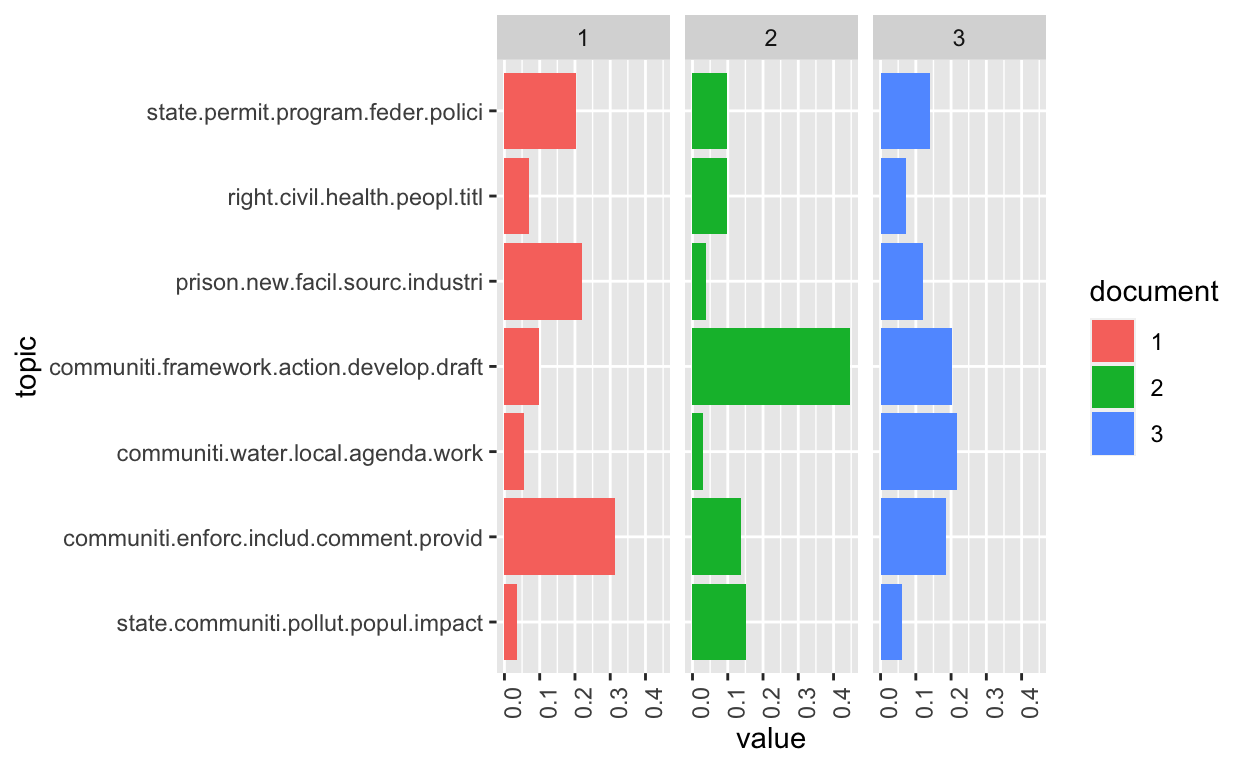
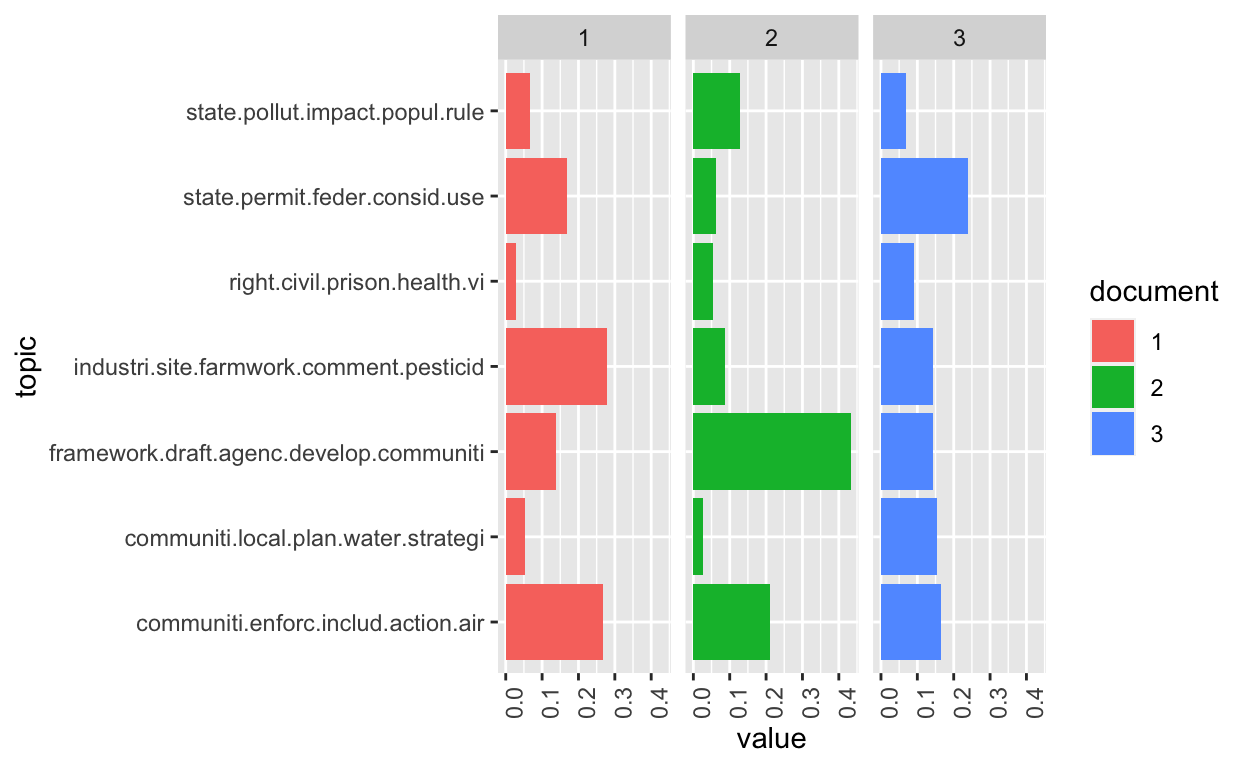
Topic 6 and yml

Changed region(s): [[0.0312, 0.0938, 0.5312, 0.9375], [0.5625, 0.0938, 0.6875, 0.9688], [0.7188, 0.0938, 0.8438, 0.9375]]

diff --git a/docs/topic_6.html b/docs/topic_6.html
@@ -2694,28 +2694,28 @@ Gibbs sampling completed!</code></pre>
 <pre class="sourceCode r"><code class="sourceCode r"><span class='fu'><a href='https://rdrr.io/r/stats/terms.html'>terms</a></span><span class='op'>(</span><span class='va'>topicModel_k9</span>, <span class='fl'>10</span><span class='op'>)</span>
 </code></pre>
 </div>
-<pre><code>      Topic 1     Topic 2    Topic 3   Topic 4     Topic 5  
- [1,] &quot;communiti&quot; &quot;prison&quot;   &quot;program&quot; &quot;framework&quot; &quot;right&quot;  
- [2,] &quot;pollut&quot;    &quot;site&quot;     &quot;state&quot;   &quot;draft&quot;     &quot;health&quot; 
- [3,] &quot;need&quot;      &quot;water&quot;    &quot;feder&quot;   &quot;action&quot;    &quot;civil&quot;  
- [4,] &quot;comment&quot;   &quot;energi&quot;   &quot;agenc&quot;   &quot;effort&quot;    &quot;peopl&quot;  
- [5,] &quot;clean&quot;     &quot;popul&quot;    &quot;issu&quot;    &quot;agenc&quot;     &quot;law&quot;    
- [6,] &quot;protect&quot;   &quot;facil&quot;    &quot;act&quot;     &quot;develop&quot;   &quot;citi&quot;   
- [7,] &quot;air&quot;       &quot;project&quot;  &quot;vi&quot;      &quot;communiti&quot; &quot;park&quot;   
- [8,] &quot;impact&quot;    &quot;industri&quot; &quot;polici&quot;  &quot;epa&quot;       &quot;includ&quot; 
- [9,] &quot;area&quot;      &quot;gas&quot;      &quot;follow&quot;  &quot;support&quot;   &quot;address&quot;
-[10,] &quot;result&quot;    &quot;counti&quot;   &quot;will&quot;    &quot;goal&quot;      &quot;access&quot; 
-      Topic 6     Topic 7    Topic 8     Topic 9    
- [1,] &quot;communiti&quot; &quot;rule&quot;     &quot;state&quot;     &quot;communiti&quot;
- [2,] &quot;enforc&quot;    &quot;impact&quot;   &quot;permit&quot;    &quot;work&quot;     
- [3,] &quot;includ&quot;    &quot;state&quot;    &quot;consid&quot;    &quot;plan&quot;     
- [4,] &quot;monitor&quot;   &quot;health&quot;   &quot;comment&quot;   &quot;use&quot;      
- [5,] &quot;action&quot;    &quot;provid&quot;   &quot;organ&quot;     &quot;strategi&quot; 
- [6,] &quot;provid&quot;    &quot;popul&quot;    &quot;use&quot;       &quot;make&quot;     
- [7,] &quot;permit&quot;    &quot;must&quot;     &quot;grant&quot;     &quot;agenda&quot;   
- [8,] &quot;data&quot;      &quot;ejscreen&quot; &quot;feder&quot;     &quot;particip&quot; 
- [9,] &quot;requir&quot;    &quot;also&quot;     &quot;framework&quot; &quot;local&quot;    
-[10,] &quot;complianc&quot; &quot;asthma&quot;   &quot;air&quot;       &quot;help&quot;     </code></pre>
+<pre><code>      Topic 1     Topic 2   Topic 3    Topic 4     Topic 5    
+ [1,] &quot;communiti&quot; &quot;feder&quot;   &quot;state&quot;    &quot;state&quot;     &quot;communiti&quot;
+ [2,] &quot;plan&quot;      &quot;agenc&quot;   &quot;rule&quot;     &quot;permit&quot;    &quot;enforc&quot;   
+ [3,] &quot;local&quot;     &quot;program&quot; &quot;impact&quot;   &quot;consid&quot;    &quot;includ&quot;   
+ [4,] &quot;use&quot;       &quot;titl&quot;    &quot;popul&quot;    &quot;air&quot;       &quot;action&quot;   
+ [5,] &quot;make&quot;      &quot;issu&quot;    &quot;health&quot;   &quot;implement&quot; &quot;monitor&quot;  
+ [6,] &quot;strategi&quot;  &quot;state&quot;   &quot;ejscreen&quot; &quot;meet&quot;      &quot;data&quot;     
+ [7,] &quot;govern&quot;    &quot;vi&quot;      &quot;also&quot;     &quot;feder&quot;     &quot;permit&quot;   
+ [8,] &quot;comment&quot;   &quot;act&quot;     &quot;avail&quot;    &quot;grant&quot;     &quot;requir&quot;   
+ [9,] &quot;agenda&quot;    &quot;right&quot;   &quot;asthma&quot;   &quot;train&quot;     &quot;region&quot;   
+[10,] &quot;particip&quot;  &quot;civil&quot;   &quot;pollut&quot;   &quot;comment&quot;   &quot;report&quot;   
+      Topic 6  Topic 7    Topic 8     Topic 9    
+ [1,] &quot;health&quot; &quot;prison&quot;   &quot;framework&quot; &quot;communiti&quot;
+ [2,] &quot;citi&quot;   &quot;center&quot;   &quot;effort&quot;    &quot;pollut&quot;   
+ [3,] &quot;peopl&quot;  &quot;facil&quot;    &quot;communiti&quot; &quot;air&quot;      
+ [4,] &quot;right&quot;  &quot;site&quot;     &quot;draft&quot;     &quot;comment&quot;  
+ [5,] &quot;can&quot;    &quot;project&quot;  &quot;action&quot;    &quot;clean&quot;    
+ [6,] &quot;park&quot;   &quot;sourc&quot;    &quot;develop&quot;   &quot;protect&quot;  
+ [7,] &quot;includ&quot; &quot;industri&quot; &quot;agenc&quot;     &quot;need&quot;     
+ [8,] &quot;climat&quot; &quot;energi&quot;   &quot;epa&quot;       &quot;plan&quot;     
+ [9,] &quot;nation&quot; &quot;work&quot;     &quot;will&quot;      &quot;health&quot;   
+[10,] &quot;access&quot; &quot;counti&quot;   &quot;impact&quot;    &quot;address&quot;  </code></pre>
 </div>
 <p>Some of those topics seem related to the cross-cutting and additional
 topics identified in the EPA’s response to the public comments:</p>
@@ -2789,28 +2789,28 @@ Gibbs sampling completed!</code></pre>
 <span class='fu'><a href='https://rdrr.io/r/stats/terms.html'>terms</a></span><span class='op'>(</span><span class='va'>topicModel_k7</span>, <span class='fl'>10</span><span class='op'>)</span>
 </code></pre>
 </div>
-<pre><code>      Topic 1     Topic 2     Topic 3     Topic 4      Topic 5   
- [1,] &quot;state&quot;     &quot;communiti&quot; &quot;communiti&quot; &quot;communiti&quot;  &quot;prison&quot;  
- [2,] &quot;communiti&quot; &quot;enforc&quot;    &quot;water&quot;     &quot;framework&quot;  &quot;new&quot;     
- [3,] &quot;pollut&quot;    &quot;includ&quot;    &quot;local&quot;     &quot;action&quot;     &quot;facil&quot;   
- [4,] &quot;popul&quot;     &quot;comment&quot;   &quot;agenda&quot;    &quot;develop&quot;    &quot;sourc&quot;   
- [5,] &quot;impact&quot;    &quot;provid&quot;    &quot;work&quot;      &quot;draft&quot;      &quot;industri&quot;
- [6,] &quot;rule&quot;      &quot;monitor&quot;   &quot;comment&quot;   &quot;effort&quot;     &quot;texa&quot;    
- [7,] &quot;health&quot;    &quot;health&quot;    &quot;can&quot;       &quot;agenc&quot;      &quot;center&quot;  
- [8,] &quot;also&quot;      &quot;requir&quot;    &quot;plan&quot;      &quot;overburden&quot; &quot;project&quot; 
- [9,] &quot;guidanc&quot;   &quot;complianc&quot; &quot;make&quot;      &quot;comment&quot;    &quot;use&quot;     
-[10,] &quot;air&quot;       &quot;pollut&quot;    &quot;econom&quot;    &quot;epa&quot;        &quot;data&quot;    
-      Topic 6  Topic 7   
- [1,] &quot;right&quot;  &quot;state&quot;   
- [2,] &quot;civil&quot;  &quot;permit&quot;  
- [3,] &quot;health&quot; &quot;program&quot; 
- [4,] &quot;peopl&quot;  &quot;feder&quot;   
- [5,] &quot;titl&quot;   &quot;polici&quot;  
- [6,] &quot;vi&quot;     &quot;consid&quot;  
- [7,] &quot;includ&quot; &quot;meet&quot;    
- [8,] &quot;feder&quot;  &quot;opportun&quot;
- [9,] &quot;access&quot; &quot;comment&quot; 
-[10,] &quot;act&quot;    &quot;air&quot;     </code></pre>
+<pre><code>      Topic 1     Topic 2     Topic 3     Topic 4    Topic 5 
+ [1,] &quot;communiti&quot; &quot;communiti&quot; &quot;framework&quot; &quot;industri&quot; &quot;right&quot; 
+ [2,] &quot;enforc&quot;    &quot;local&quot;     &quot;draft&quot;     &quot;site&quot;     &quot;civil&quot; 
+ [3,] &quot;includ&quot;    &quot;plan&quot;      &quot;agenc&quot;     &quot;farmwork&quot; &quot;prison&quot;
+ [4,] &quot;action&quot;    &quot;water&quot;     &quot;develop&quot;   &quot;comment&quot;  &quot;health&quot;
+ [5,] &quot;air&quot;       &quot;strategi&quot;  &quot;communiti&quot; &quot;pesticid&quot; &quot;vi&quot;    
+ [6,] &quot;pollut&quot;    &quot;econom&quot;    &quot;effort&quot;    &quot;year&quot;     &quot;peopl&quot; 
+ [7,] &quot;complianc&quot; &quot;can&quot;       &quot;epa&quot;       &quot;will&quot;     &quot;titl&quot;  
+ [8,] &quot;monitor&quot;   &quot;govern&quot;    &quot;action&quot;    &quot;texa&quot;     &quot;impact&quot;
+ [9,] &quot;comment&quot;   &quot;mani&quot;      &quot;state&quot;     &quot;facil&quot;    &quot;act&quot;   
+[10,] &quot;need&quot;      &quot;use&quot;       &quot;agenda&quot;    &quot;data&quot;     &quot;law&quot;   
+      Topic 6     Topic 7  
+ [1,] &quot;state&quot;     &quot;state&quot;  
+ [2,] &quot;permit&quot;    &quot;pollut&quot; 
+ [3,] &quot;feder&quot;     &quot;impact&quot; 
+ [4,] &quot;consid&quot;    &quot;popul&quot;  
+ [5,] &quot;use&quot;       &quot;rule&quot;   
+ [6,] &quot;implement&quot; &quot;health&quot; 
+ [7,] &quot;program&quot;   &quot;provid&quot; 
+ [8,] &quot;air&quot;       &quot;also&quot;   
+ [9,] &quot;qualiti&quot;   &quot;comment&quot;
+[10,] &quot;meet&quot;      &quot;guidanc&quot;</code></pre>
 <div class="sourceCode">
 <pre class="sourceCode r"><code class="sourceCode r"><span class='va'>theta</span> <span class='op'>&lt;-</span> <span class='va'>tmResult</span><span class='op'>$</span><span class='va'>topics</span>
 <span class='va'>beta</span> <span class='op'>&lt;-</span> <span class='va'>tmResult</span><span class='op'>$</span><span class='va'>terms</span>
@@ -2835,20 +2835,20 @@ down the rabbit hole here</a></p>
 <span class='va'>top_terms</span>
 </code></pre>
 </div>
-<pre><code># A tibble: 71 × 3
-   topic term         beta
-   &lt;int&gt; &lt;chr&gt;       &lt;dbl&gt;
- 1     1 state     0.0152 
- 2     1 communiti 0.0145 
- 3     1 pollut    0.0142 
- 4     1 popul     0.0120 
- 5     1 impact    0.0113 
- 6     1 rule      0.0108 
- 7     1 health    0.0108 
- 8     1 also      0.0108 
- 9     1 guidanc   0.0104 
-10     1 air       0.00996
-# … with 61 more rows</code></pre>
+<pre><code># A tibble: 73 × 3
+   topic term        beta
+   &lt;int&gt; &lt;chr&gt;      &lt;dbl&gt;
+ 1     1 communiti 0.0560
+ 2     1 enforc    0.0161
+ 3     1 includ    0.0155
+ 4     1 action    0.0122
+ 5     1 air       0.0113
+ 6     1 pollut    0.0108
+ 7     1 complianc 0.0106
+ 8     1 monitor   0.0106
+ 9     1 comment   0.0103
+10     1 need      0.0101
+# … with 63 more rows</code></pre>
 </div>
 <div class="layout-chunk" data-layout="l-body">
 <div class="sourceCode">
